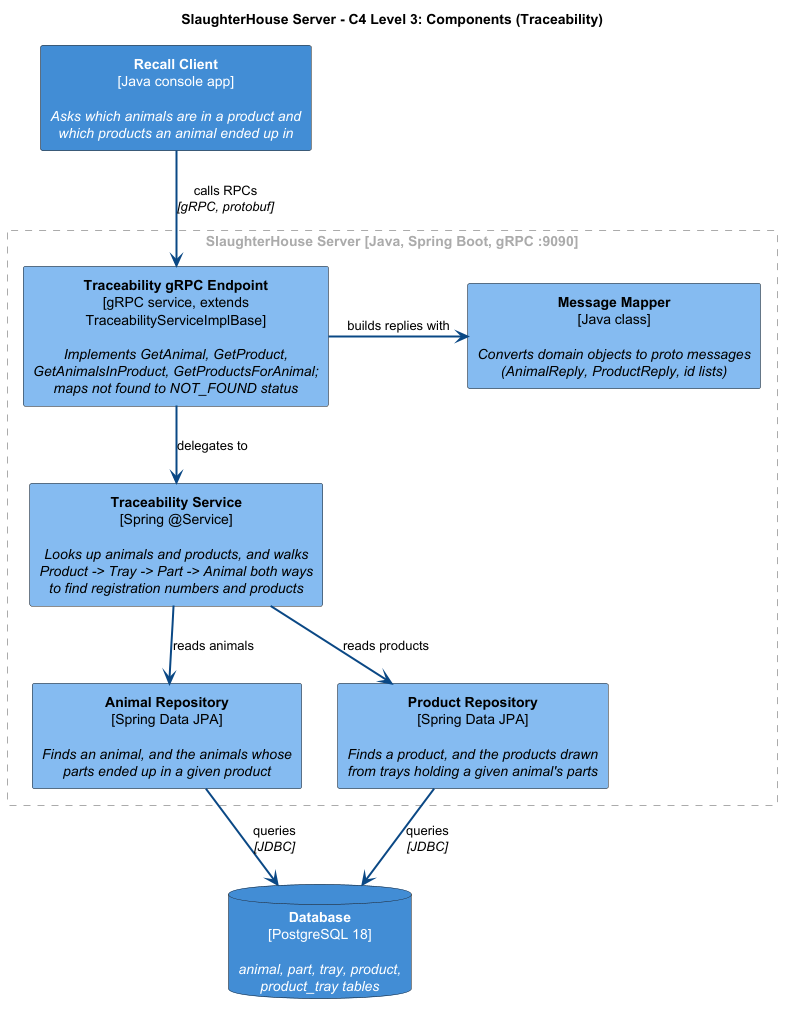
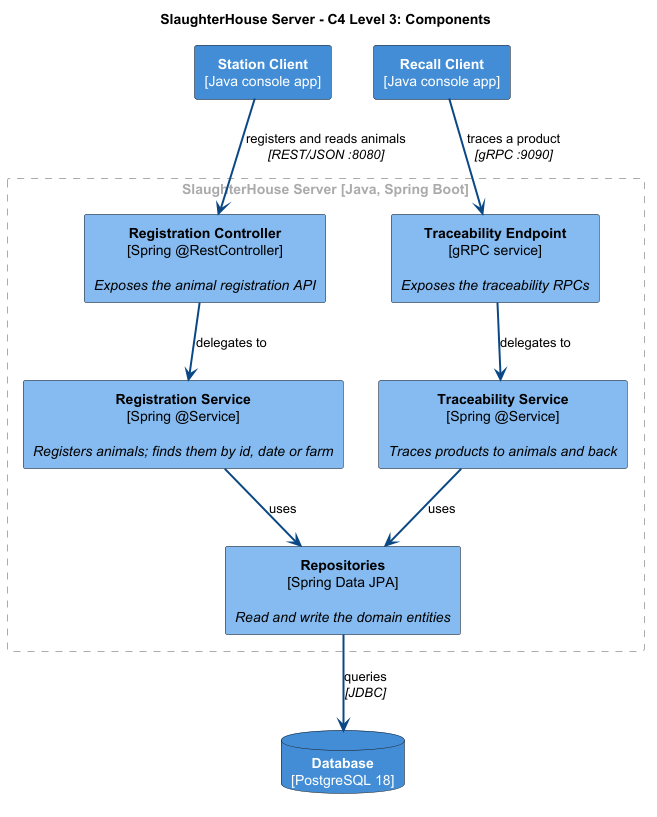
Added test and uådated component diagram

diff --git a/SlaughterHouse/src/test/java/slaughterhouse/api/rest/RegistrationControllerTest.java b/SlaughterHouse/src/test/java/slaughterhouse/api/rest/RegistrationControllerTest.java
@@ -1,0 +1,137 @@
+package slaughterhouse.api.rest;
+
+import org.junit.jupiter.api.BeforeEach;
+import org.junit.jupiter.api.Test;
+import org.springframework.beans.factory.annotation.Autowired;
+import org.springframework.boot.webmvc.test.autoconfigure.WebMvcTest;
+import org.springframework.http.MediaType;
+import org.springframework.test.context.bean.override.mockito.MockitoBean;
+import org.springframework.test.web.servlet.MockMvc;
+import slaughterhouse.domain.Animal;
+import slaughterhouse.domain.Delivery;
+import slaughterhouse.domain.Farm;
+import slaughterhouse.domain.Species;
+import slaughterhouse.service.NotFoundException;
+import slaughterhouse.service.Registration;
+import slaughterhouse.service.RegistrationService;
+
+import java.math.BigDecimal;
+import java.time.LocalDate;
+import java.time.LocalDateTime;
+import java.util.List;
+import java.util.UUID;
+
+import static org.mockito.ArgumentMatchers.any;
+import static org.mockito.ArgumentMatchers.eq;
+import static org.mockito.Mockito.mock;
+import static org.mockito.Mockito.when;
+import static org.springframework.test.web.servlet.request.MockMvcRequestBuilders.get;
+import static org.springframework.test.web.servlet.request.MockMvcRequestBuilders.post;
+import static org.springframework.test.web.servlet.result.MockMvcResultMatchers.header;
+import static org.springframework.test.web.servlet.result.MockMvcResultMatchers.jsonPath;
+import static org.springframework.test.web.servlet.result.MockMvcResultMatchers.status;
+
+// Only the web layer: the service is a mock, so no database is needed
+@WebMvcTest(RegistrationController.class)
+class RegistrationControllerTest
+{
+  private final UUID animalId = UUID.fromString("a0000000-0000-4000-8000-000000000001");
+  private final UUID deliveryId = UUID.fromString("e0000000-0000-4000-8000-000000000001");
+
+  @Autowired
+  private MockMvc mvc;
+
+  @MockitoBean
+  private RegistrationService registrationService;
+
+  private Animal animal;
+
+  @BeforeEach
+  void setUp()
+  {
+    Delivery delivery = mock(Delivery.class);
+    when(delivery.getDeliveryId()).thenReturn(deliveryId);
+    when(delivery.getFarm()).thenReturn(new Farm(12345678, "Egebjerg Svineavl", "Egebjergvej 12"));
+    animal = new Animal(animalId, delivery, Species.Pig, new BigDecimal("112.400"),
+        LocalDateTime.of(2026, 9, 21, 5, 52));
+  }
+
+  @Test
+  void registeringANewAnimalReturnsCreated() throws Exception
+  {
+    when(registrationService.registerAnimal(eq(animalId), eq(deliveryId), eq(Species.Pig), any(), any()))
+        .thenReturn(new Registration(animal, true));
+
+    mvc.perform(post("/animals").contentType(MediaType.APPLICATION_JSON).content(requestBody()))
+        .andExpect(status().isCreated())
+        .andExpect(header().string("Location", "/animals/" + animalId))
+        .andExpect(jsonPath("$.animalId").value(animalId.toString()));
+  }
+
+  @Test
+  void registeringTheSameAnimalAgainReturnsOk() throws Exception
+  {
+    when(registrationService.registerAnimal(any(), any(), any(), any(), any()))
+        .thenReturn(new Registration(animal, false));
+
+    mvc.perform(post("/animals").contentType(MediaType.APPLICATION_JSON).content(requestBody()))
+        .andExpect(status().isOk());
+  }
+
+  @Test
+  void registeringWithMissingFieldsIsABadRequest() throws Exception
+  {
+    mvc.perform(post("/animals").contentType(MediaType.APPLICATION_JSON).content("{}"))
+        .andExpect(status().isBadRequest());
+  }
+
+  @Test
+  void getsAnAnimal() throws Exception
+  {
+    when(registrationService.getAnimal(animalId)).thenReturn(animal);
+
+    mvc.perform(get("/animals/" + animalId))
+        .andExpect(status().isOk())
+        .andExpect(jsonPath("$.animalId").value(animalId.toString()))
+        .andExpect(jsonPath("$.farmCvr").value(12345678))
+        .andExpect(jsonPath("$.species").value("Pig"))
+        .andExpect(jsonPath("$.liveWeightKg").value(112.4));
+  }
+
+  @Test
+  void unknownAnimalIsNotFound() throws Exception
+  {
+    when(registrationService.getAnimal(animalId)).thenThrow(new NotFoundException("No animal"));
+
+    mvc.perform(get("/animals/" + animalId))
+        .andExpect(status().isNotFound());
+  }
+
+  @Test
+  void getsAnimalsArrivedOnADate() throws Exception
+  {
+    when(registrationService.getAnimalsArrivedOn(LocalDate.of(2026, 9, 21))).thenReturn(List.of(animal));
+
+    mvc.perform(get("/animals").param("date", "2026-09-21"))
+        .andExpect(status().isOk())
+        .andExpect(jsonPath("$[0].animalId").value(animalId.toString()));
+  }
+
+  @Test
+  void getsAnimalsFromAFarm() throws Exception
+  {
+    when(registrationService.getAnimalsFromFarm(12345678)).thenReturn(List.of(animal));
+
+    mvc.perform(get("/animals").param("farm", "12345678"))
+        .andExpect(status().isOk())
+        .andExpect(jsonPath("$[0].farmCvr").value(12345678));
+  }
+
+  private String requestBody()
+  {
+    return """
+        {"animalId": "%s", "deliveryId": "%s", "species": "Pig",
+         "liveWeightKg": 112.4, "registeredAt": "2026-09-21T05:52:00"}"""
+        .formatted(animalId, deliveryId);
+  }
+}

diff --git a/SlaughterHouse/src/test/java/slaughterhouse/service/RegistrationServiceTest.java b/SlaughterHouse/src/test/java/slaughterhouse/service/RegistrationServiceTest.java
@@ -9,7 +9,9 @@ import slaughterhouse.persistence.AnimalRepository;
 import slaughterhouse.persistence.DeliveryRepository;
 
 import java.math.BigDecimal;
+import java.time.LocalDate;
 import java.time.LocalDateTime;
+import java.util.List;
 import java.util.Optional;
 import java.util.UUID;
 
@@ -84,5 +86,33 @@ class RegistrationServiceTest
     assertSame(existing, registration.animal());
     assertFalse(registration.created());
     verify(animalRepository, never()).save(any());
+  }
+
+  @Test
+  void unknownAnimalIsNotFound()
+  {
+    when(animalRepository.findById(animalId)).thenReturn(Optional.empty());
+
+    assertThrows(NotFoundException.class, () -> service.getAnimal(animalId));
+  }
+
+  @Test
+  void animalsArrivedOnADateAreSearchedFromMidnightToMidnight()
+  {
+    List<Animal> animals = List.of(mock(Animal.class));
+    when(animalRepository.findByDeliveryArrivedAtBetween(
+        LocalDateTime.of(2026, 10, 9, 0, 0), LocalDateTime.of(2026, 10, 10, 0, 0)))
+        .thenReturn(animals);
+
+    assertSame(animals, service.getAnimalsArrivedOn(LocalDate.of(2026, 10, 9)));
+  }
+
+  @Test
+  void animalsFromAFarmAreFoundByCvr()
+  {
+    List<Animal> animals = List.of(mock(Animal.class));
+    when(animalRepository.findByDeliveryFarmCvr(12345678)).thenReturn(animals);
+
+    assertSame(animals, service.getAnimalsFromFarm(12345678));
   }
 }
